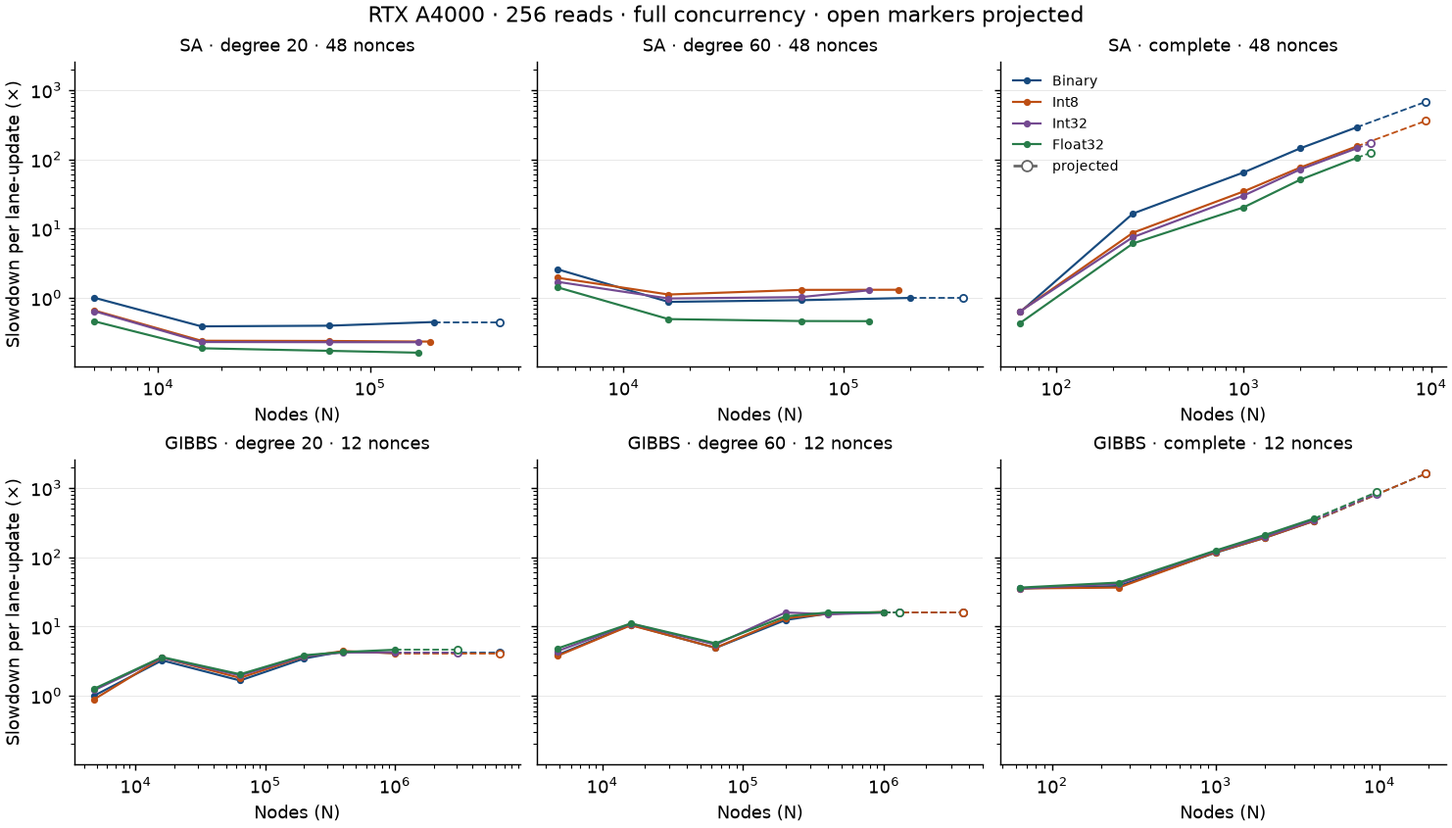
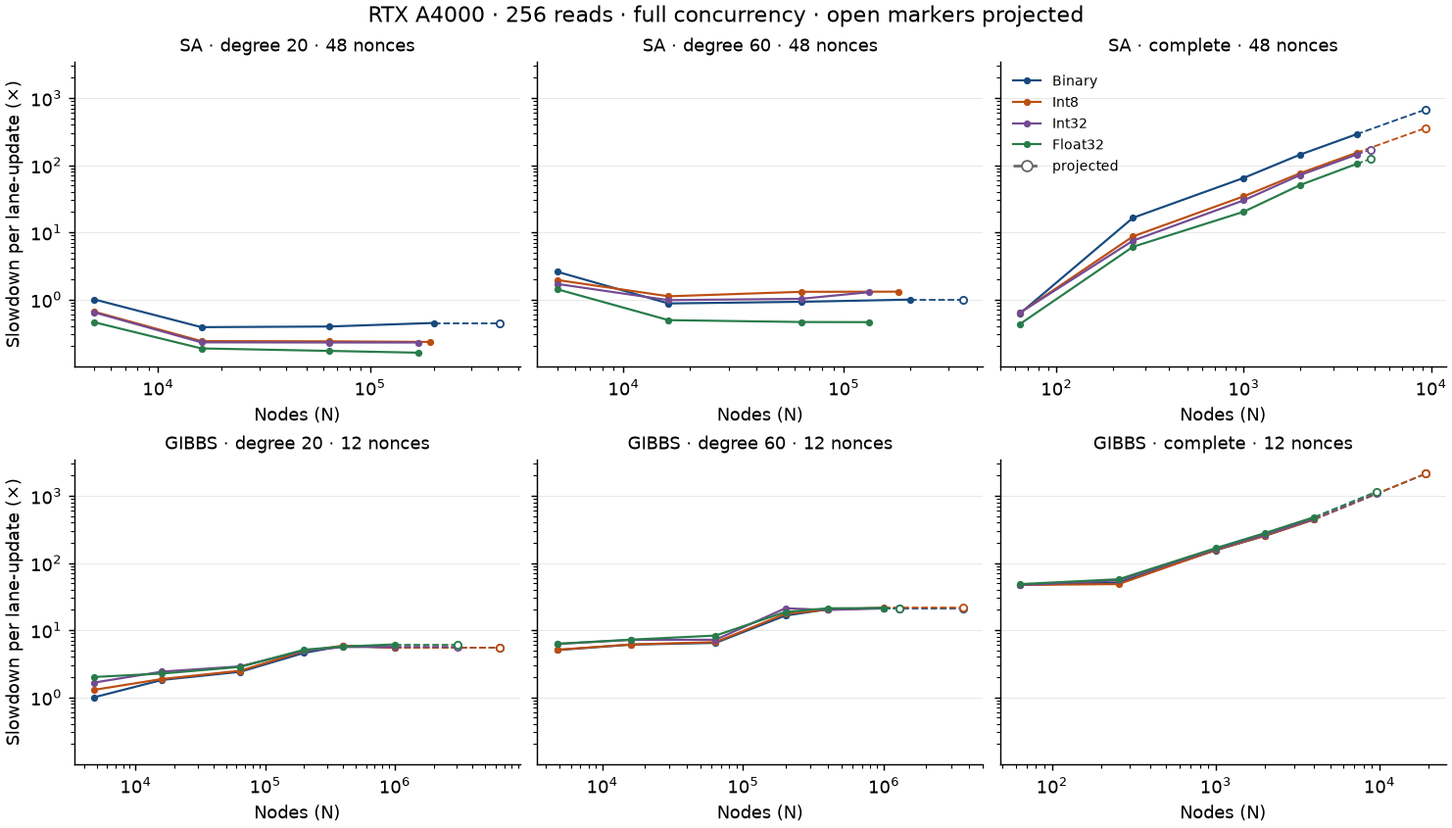
docs(perf): regenerate the sa and gibbs report with the carve-out measurements
The report, its timing tables, and both plots now come from a summary
that holds the 24 Gibbs cells measured again on 8f5b7ae. The separate
recalibration section is gone, and the test setup names the build.

diff --git a/docs/perf/2026-11-sa-gibbs-vram-dense-a4000.md b/docs/perf/2026-11-sa-gibbs-vram-dense-a4000.md
@@ -11,6 +11,8 @@ The tables show both how much fits and how long it runs.
 - Grid binaries: the first 260 cells used `1b8108a309a9d3c4ef543858af3ac4ddf13ebc6c` with the probe calibration edits.
   The 16 Gibbs full-spill cells at 400,000 and 1,000,000 nodes used the `a6d0769` build, `target/grid-a6d0769/quip-cuda-gibbs`.
   Kernel code is the same in both builds. The later build also has no fixed launch time limit.
+  The 24 Gibbs cells at 4,800, 16,000, and 64,000 nodes at degrees 20 and 60 and 12 nonces used `8f5b7ae`, which asks the driver to prefer L1 over shared memory for every Gibbs function.
+  Gibbs cells at 12 nonces and more than 64,000 nodes measured within 5 percent with and without that change, and the one-nonce Gibbs cells use the earlier builds.
 - Reads: 256 per nonce. Concurrency: full instance count and one nonce.
 - Each sweep point uses one warm-up and four measured repeats.
 - Sweep pairs: 64/256, or 8/32 when earlier cells predict more than 900 seconds for 64/256.
@@ -84,18 +86,18 @@ Each of 12 instances has a budget of 1,108,130,747 bytes.
 
 | Connectivity | Precision | Nodes | Couplers | Tier | Bytes per instance | Slowdown |
 |---|---|---:|---:|---|---:|---:|
-| degree 20 | Binary | 6,491,600 | 64,916,000 | spill | 1,057,728,632 | 4.1153× (projected) |
-| degree 20 | Int8 | 6,491,600 | 64,916,000 | spill | 1,057,728,632 | 4.0792× (projected) |
-| degree 20 | Int32 | 3,077,188 | 30,771,880 | spill | 1,082,768,392 | 4.2185× (projected) |
-| degree 20 | Float32 | 3,077,188 | 30,771,880 | spill | 1,082,768,392 | 4.5859× (projected) |
-| degree 60 | Binary | 3,641,281 | 109,238,430 | spill | 1,030,081,347 | 15.9198× (projected) |
-| degree 60 | Int8 | 3,641,281 | 109,238,430 | spill | 1,030,081,347 | 16.1057× (projected) |
-| degree 60 | Int32 | 1,296,797 | 38,903,910 | spill | 1,078,533,544 | 15.7330× (projected) |
-| degree 60 | Float32 | 1,296,797 | 38,903,910 | spill | 1,078,533,544 | 15.9262× (projected) |
-| complete | Binary | 19,177 | 183,869,076 | dense | 1,105,327,703 | 1598.2570× (projected) |
-| complete | Int8 | 19,177 | 183,869,076 | dense | 1,105,327,703 | 1600.3476× (projected) |
-| complete | Int32 | 9,592 | 45,998,436 | dense | 1,105,193,345 | 821.1391× (projected) |
-| complete | Float32 | 9,592 | 45,998,436 | dense | 1,105,193,345 | 864.9393× (projected) |
+| degree 20 | Binary | 6,491,600 | 64,916,000 | spill | 1,057,728,632 | 5.5030× (projected) |
+| degree 20 | Int8 | 6,491,600 | 64,916,000 | spill | 1,057,728,632 | 5.4547× (projected) |
+| degree 20 | Int32 | 3,077,188 | 30,771,880 | spill | 1,082,768,392 | 5.6410× (projected) |
+| degree 20 | Float32 | 3,077,188 | 30,771,880 | spill | 1,082,768,392 | 6.1323× (projected) |
+| degree 60 | Binary | 3,641,281 | 109,238,430 | spill | 1,030,081,347 | 21.2878× (projected) |
+| degree 60 | Int8 | 3,641,281 | 109,238,430 | spill | 1,030,081,347 | 21.5363× (projected) |
+| degree 60 | Int32 | 1,296,797 | 38,903,910 | spill | 1,078,533,544 | 21.0381× (projected) |
+| degree 60 | Float32 | 1,296,797 | 38,903,910 | spill | 1,078,533,544 | 21.2964× (projected) |
+| complete | Binary | 19,177 | 183,869,076 | dense | 1,105,327,703 | 2137.1746× (projected) |
+| complete | Int8 | 19,177 | 183,869,076 | dense | 1,105,327,703 | 2139.9701× (projected) |
+| complete | Int32 | 9,592 | 45,998,436 | dense | 1,105,193,345 | 1098.0197× (projected) |
+| complete | Float32 | 9,592 | 45,998,436 | dense | 1,105,193,345 | 1156.5889× (projected) |
 
 ## Timing tables
 
@@ -216,121 +218,121 @@ The tables hold the timed range only, and the Smoke runs section lists the large
 
 | Connectivity | Precision | N | Spilled | Nonces | Sweeps | Sweep ms | G lane-updates/s | Slowdown |
 |---|---|---:|---:|---:|---|---:|---:|---:|
-| degree 20 | binary | 4,800 | 0.0% | 12 | 64/256 | 5.497795 | 2.68209 | 1.0000× |
-| degree 20 | binary | 16,000 | 0.0% | 12 | 64/256 | 59.107871 | 0.83156 | 3.2254× |
-| degree 20 | binary | 64,000 | 0.0% | 12 | 64/256 | 121.000988 | 1.62485 | 1.6507× |
-| degree 20 | binary | 200,000 | 49.3% | 12 | 64/256 | 785.232310 | 0.78244 | 3.4278× |
-| degree 20 | binary | 400,000 | 74.7% | 12 | 8/32 | 1991.706543 | 0.61696 | 4.3473× |
-| degree 20 | binary | 1,000,000 | 89.9% | 12 | 8/32 | 4713.566162 | 0.65174 | 4.1153× |
+| degree 20 | binary | 4,800 | 0.0% | 12 | 64/256 | 4.111451 | 3.58647 | 1.0000× |
+| degree 20 | binary | 16,000 | 0.0% | 12 | 64/256 | 24.835500 | 1.97910 | 1.8122× |
+| degree 20 | binary | 64,000 | 0.0% | 12 | 64/256 | 131.104538 | 1.49963 | 2.3916× |
+| degree 20 | binary | 200,000 | 49.3% | 12 | 64/256 | 785.232310 | 0.78244 | 4.5837× |
+| degree 20 | binary | 400,000 | 74.7% | 12 | 8/32 | 1991.706543 | 0.61696 | 5.8131× |
+| degree 20 | binary | 1,000,000 | 89.9% | 12 | 8/32 | 4713.566162 | 0.65174 | 5.5030× |
 | degree 20 | binary | 4,800 | 0.0% | 1 | 64/256 | 4.355447 | 0.28213 | 1.0000× |
 | degree 20 | binary | 16,000 | 0.0% | 1 | 64/256 | 33.069009 | 0.12386 | 2.2778× |
 | degree 20 | binary | 64,000 | 0.0% | 1 | 64/256 | 95.880447 | 0.17088 | 1.6510× |
 | degree 20 | binary | 200,000 | 49.3% | 1 | 64/256 | 640.133464 | 0.07998 | 3.5274× |
-| degree 20 | int8 | 4,800 | 0.0% | 12 | 64/256 | 4.876751 | 3.02365 | 0.8870× |
-| degree 20 | int8 | 16,000 | 0.0% | 12 | 64/256 | 64.472672 | 0.76237 | 3.5181× |
-| degree 20 | int8 | 64,000 | 0.0% | 12 | 64/256 | 132.074389 | 1.48862 | 1.8017× |
-| degree 20 | int8 | 200,000 | 49.3% | 12 | 64/256 | 834.823792 | 0.73596 | 3.6443× |
-| degree 20 | int8 | 400,000 | 74.7% | 12 | 8/32 | 2010.378459 | 0.61123 | 4.3880× |
-| degree 20 | int8 | 1,000,000 | 89.9% | 12 | 8/32 | 4672.234945 | 0.65750 | 4.0792× |
+| degree 20 | int8 | 4,800 | 0.0% | 12 | 64/256 | 5.306321 | 2.77887 | 1.2906× |
+| degree 20 | int8 | 16,000 | 0.0% | 12 | 64/256 | 25.640667 | 1.91695 | 1.8709× |
+| degree 20 | int8 | 64,000 | 0.0% | 12 | 64/256 | 136.073942 | 1.44486 | 2.4822× |
+| degree 20 | int8 | 200,000 | 49.3% | 12 | 64/256 | 834.823792 | 0.73596 | 4.8732× |
+| degree 20 | int8 | 400,000 | 74.7% | 12 | 8/32 | 2010.378459 | 0.61123 | 5.8676× |
+| degree 20 | int8 | 1,000,000 | 89.9% | 12 | 8/32 | 4672.234945 | 0.65750 | 5.4547× |
 | degree 20 | int8 | 4,800 | 0.0% | 1 | 64/256 | 4.169994 | 0.29468 | 0.9574× |
 | degree 20 | int8 | 16,000 | 0.0% | 1 | 64/256 | 34.378634 | 0.11914 | 2.3680× |
 | degree 20 | int8 | 64,000 | 0.0% | 1 | 64/256 | 96.974417 | 0.16895 | 1.6699× |
 | degree 20 | int8 | 200,000 | 49.3% | 1 | 64/256 | 644.113057 | 0.07949 | 3.5493× |
-| degree 20 | int32 | 4,800 | 0.0% | 12 | 64/256 | 6.591677 | 2.23700 | 1.1990× |
-| degree 20 | int32 | 16,000 | 0.0% | 12 | 64/256 | 64.388643 | 0.76336 | 3.5135× |
-| degree 20 | int32 | 64,000 | 0.0% | 12 | 64/256 | 143.389852 | 1.37114 | 1.9561× |
-| degree 20 | int32 | 200,000 | 49.3% | 12 | 64/256 | 846.958211 | 0.72542 | 3.6973× |
-| degree 20 | int32 | 400,000 | 74.7% | 12 | 8/32 | 1915.486287 | 0.64151 | 4.1809× |
-| degree 20 | int32 | 1,000,000 | 89.9% | 12 | 8/32 | 4831.797689 | 0.63579 | 4.2185× |
+| degree 20 | int32 | 4,800 | 0.0% | 12 | 64/256 | 6.809102 | 2.16557 | 1.6561× |
+| degree 20 | int32 | 16,000 | 0.0% | 12 | 64/256 | 33.013389 | 1.48885 | 2.4089× |
+| degree 20 | int32 | 64,000 | 0.0% | 12 | 64/256 | 158.122584 | 1.24339 | 2.8844× |
+| degree 20 | int32 | 200,000 | 49.3% | 12 | 64/256 | 846.958211 | 0.72542 | 4.9440× |
+| degree 20 | int32 | 400,000 | 74.7% | 12 | 8/32 | 1915.486287 | 0.64151 | 5.5907× |
+| degree 20 | int32 | 1,000,000 | 89.9% | 12 | 8/32 | 4831.797689 | 0.63579 | 5.6410× |
 | degree 20 | int32 | 4,800 | 0.0% | 1 | 64/256 | 4.462780 | 0.27534 | 1.0246× |
 | degree 20 | int32 | 16,000 | 0.0% | 1 | 64/256 | 36.212374 | 0.11311 | 2.4943× |
 | degree 20 | int32 | 64,000 | 0.0% | 1 | 64/256 | 100.856597 | 0.16245 | 1.7367× |
 | degree 20 | int32 | 200,000 | 49.3% | 1 | 64/256 | 640.668803 | 0.07992 | 3.5303× |
-| degree 20 | float | 4,800 | 0.0% | 12 | 64/256 | 6.922325 | 2.13015 | 1.2591× |
-| degree 20 | float | 16,000 | 0.0% | 12 | 64/256 | 65.859039 | 0.74632 | 3.5938× |
-| degree 20 | float | 64,000 | 0.0% | 12 | 64/256 | 148.860469 | 1.32075 | 2.0307× |
-| degree 20 | float | 200,000 | 49.3% | 12 | 64/256 | 874.675883 | 0.70243 | 3.8183× |
-| degree 20 | float | 400,000 | 74.7% | 12 | 8/32 | 1948.789998 | 0.63055 | 4.2536× |
-| degree 20 | float | 1,000,000 | 89.9% | 12 | 8/32 | 5252.613607 | 0.58485 | 4.5859× |
+| degree 20 | float | 4,800 | 0.0% | 12 | 64/256 | 8.247306 | 1.78793 | 2.0059× |
+| degree 20 | float | 16,000 | 0.0% | 12 | 64/256 | 30.903810 | 1.59048 | 2.2550× |
+| degree 20 | float | 64,000 | 0.0% | 12 | 64/256 | 155.140554 | 1.26729 | 2.8300× |
+| degree 20 | float | 200,000 | 49.3% | 12 | 64/256 | 874.675883 | 0.70243 | 5.1058× |
+| degree 20 | float | 400,000 | 74.7% | 12 | 8/32 | 1948.789998 | 0.63055 | 5.6879× |
+| degree 20 | float | 1,000,000 | 89.9% | 12 | 8/32 | 5252.613607 | 0.58485 | 6.1323× |
 | degree 20 | float | 4,800 | 0.0% | 1 | 64/256 | 4.607019 | 0.26672 | 1.0578× |
 | degree 20 | float | 16,000 | 0.0% | 1 | 64/256 | 34.747630 | 0.11788 | 2.3934× |
 | degree 20 | float | 64,000 | 0.0% | 1 | 64/256 | 105.292745 | 0.15560 | 1.8131× |
 | degree 20 | float | 200,000 | 49.3% | 1 | 64/256 | 670.847280 | 0.07632 | 3.6966× |
-| degree 60 | binary | 4,800 | 0.0% | 12 | 64/256 | 21.173981 | 0.69640 | 3.8514× |
-| degree 60 | binary | 16,000 | 0.0% | 12 | 64/256 | 192.520414 | 0.25531 | 10.5053× |
-| degree 60 | binary | 64,000 | 0.0% | 12 | 8/32 | 357.520569 | 0.54992 | 4.8772× |
-| degree 60 | binary | 200,000 | 49.3% | 12 | 8/32 | 2820.936808 | 0.21780 | 12.3145× |
-| degree 60 | binary | 400,000 | 74.7% | 12 | 2/8 | 6998.016602 | 0.17559 | 15.2745× |
-| degree 60 | binary | 1,000,000 | 89.9% | 12 | 2/8 | 18234.156576 | 0.16848 | 15.9198× |
+| degree 60 | binary | 4,800 | 0.0% | 12 | 64/256 | 20.741940 | 0.71091 | 5.0449× |
+| degree 60 | binary | 16,000 | 0.0% | 12 | 64/256 | 83.332629 | 0.58983 | 6.0805× |
+| degree 60 | binary | 64,000 | 0.0% | 12 | 8/32 | 353.843058 | 0.55564 | 6.4547× |
+| degree 60 | binary | 200,000 | 49.3% | 12 | 8/32 | 2820.936808 | 0.21780 | 16.4668× |
+| degree 60 | binary | 400,000 | 74.7% | 12 | 2/8 | 6998.016602 | 0.17559 | 20.4250× |
+| degree 60 | binary | 1,000,000 | 89.9% | 12 | 2/8 | 18234.156576 | 0.16848 | 21.2878× |
 | degree 60 | binary | 4,800 | 0.0% | 1 | 64/256 | 13.805791 | 0.08901 | 3.1698× |
 | degree 60 | binary | 16,000 | 0.0% | 1 | 64/256 | 164.052882 | 0.02497 | 11.2998× |
 | degree 60 | binary | 64,000 | 0.0% | 1 | 8/32 | 285.496480 | 0.05739 | 4.9162× |
 | degree 60 | binary | 200,000 | 49.3% | 1 | 8/32 | 1973.534871 | 0.02594 | 10.8749× |
-| degree 60 | int8 | 4,800 | 0.0% | 12 | 64/256 | 20.511592 | 0.71889 | 3.7309× |
-| degree 60 | int8 | 16,000 | 0.0% | 12 | 64/256 | 190.038981 | 0.25864 | 10.3699× |
-| degree 60 | int8 | 64,000 | 0.0% | 12 | 8/32 | 359.585180 | 0.54676 | 4.9054× |
-| degree 60 | int8 | 200,000 | 49.3% | 12 | 8/32 | 2995.287638 | 0.20512 | 13.0756× |
-| degree 60 | int8 | 400,000 | 74.7% | 12 | 2/8 | 6924.283366 | 0.17746 | 15.1136× |
-| degree 60 | int8 | 1,000,000 | 89.9% | 12 | 2/8 | 18446.999674 | 0.16653 | 16.1057× |
+| degree 60 | int8 | 4,800 | 0.0% | 12 | 64/256 | 20.974353 | 0.70303 | 5.1014× |
+| degree 60 | int8 | 16,000 | 0.0% | 12 | 64/256 | 83.747206 | 0.58691 | 6.1108× |
+| degree 60 | int8 | 64,000 | 0.0% | 12 | 8/32 | 363.491638 | 0.54089 | 6.6307× |
+| degree 60 | int8 | 200,000 | 49.3% | 12 | 8/32 | 2995.287638 | 0.20512 | 17.4846× |
+| degree 60 | int8 | 400,000 | 74.7% | 12 | 2/8 | 6924.283366 | 0.17746 | 20.2097× |
+| degree 60 | int8 | 1,000,000 | 89.9% | 12 | 2/8 | 18446.999674 | 0.16653 | 21.5363× |
 | degree 60 | int8 | 4,800 | 0.0% | 1 | 64/256 | 13.895509 | 0.08843 | 3.1904× |
 | degree 60 | int8 | 16,000 | 0.0% | 1 | 64/256 | 164.178396 | 0.02495 | 11.3085× |
 | degree 60 | int8 | 64,000 | 0.0% | 1 | 8/32 | 289.290273 | 0.05664 | 4.9815× |
 | degree 60 | int8 | 200,000 | 49.3% | 1 | 8/32 | 1976.587687 | 0.02590 | 10.8917× |
-| degree 60 | int32 | 4,800 | 0.0% | 12 | 64/256 | 23.980204 | 0.61491 | 4.3618× |
-| degree 60 | int32 | 16,000 | 0.0% | 12 | 64/256 | 199.684644 | 0.24615 | 10.8963× |
-| degree 60 | int32 | 64,000 | 0.0% | 12 | 8/32 | 399.051504 | 0.49269 | 5.4438× |
-| degree 60 | int32 | 200,000 | 49.3% | 12 | 8/32 | 3625.759562 | 0.16945 | 15.8278× |
-| degree 60 | int32 | 400,000 | 74.7% | 12 | 2/8 | 6841.066732 | 0.17962 | 14.9320× |
-| degree 60 | int32 | 1,000,000 | 89.9% | 12 | 2/8 | 18020.195638 | 0.17048 | 15.7330× |
+| degree 60 | int32 | 4,800 | 0.0% | 12 | 64/256 | 25.525058 | 0.57769 | 6.2083× |
+| degree 60 | int32 | 16,000 | 0.0% | 12 | 64/256 | 98.007523 | 0.50151 | 7.1513× |
+| degree 60 | int32 | 64,000 | 0.0% | 12 | 8/32 | 394.141393 | 0.49883 | 7.1898× |
+| degree 60 | int32 | 200,000 | 49.3% | 12 | 8/32 | 3625.759562 | 0.16945 | 21.1648× |
+| degree 60 | int32 | 400,000 | 74.7% | 12 | 2/8 | 6841.066732 | 0.17962 | 19.9669× |
+| degree 60 | int32 | 1,000,000 | 89.9% | 12 | 2/8 | 18020.195638 | 0.17048 | 21.0381× |
 | degree 60 | int32 | 4,800 | 0.0% | 1 | 64/256 | 14.148421 | 0.08685 | 3.2484× |
 | degree 60 | int32 | 16,000 | 0.0% | 1 | 64/256 | 164.286069 | 0.02493 | 11.3159× |
 | degree 60 | int32 | 64,000 | 0.0% | 1 | 8/32 | 306.641230 | 0.05343 | 5.2803× |
 | degree 60 | int32 | 200,000 | 49.3% | 1 | 8/32 | 2000.955933 | 0.02559 | 11.0259× |
-| degree 60 | float | 4,800 | 0.0% | 12 | 64/256 | 26.281795 | 0.56106 | 4.7804× |
-| degree 60 | float | 16,000 | 0.0% | 12 | 8/32 | 201.672900 | 0.24372 | 11.0048× |
-| degree 60 | float | 64,000 | 0.0% | 12 | 8/32 | 415.801290 | 0.47284 | 5.6723× |
-| degree 60 | float | 200,000 | 49.3% | 12 | 8/32 | 3191.826904 | 0.19249 | 13.9336× |
-| degree 60 | float | 400,000 | 74.7% | 12 | 2/8 | 7245.671224 | 0.16959 | 15.8151× |
-| degree 60 | float | 1,000,000 | 89.9% | 12 | 2/8 | 18241.470052 | 0.16841 | 15.9262× |
+| degree 60 | float | 4,800 | 0.0% | 12 | 64/256 | 25.753840 | 0.57256 | 6.2639× |
+| degree 60 | float | 16,000 | 0.0% | 12 | 8/32 | 98.820119 | 0.49739 | 7.2106× |
+| degree 60 | float | 64,000 | 0.0% | 12 | 8/32 | 455.049713 | 0.43206 | 8.3009× |
+| degree 60 | float | 200,000 | 49.3% | 12 | 8/32 | 3191.826904 | 0.19249 | 18.6318× |
+| degree 60 | float | 400,000 | 74.7% | 12 | 2/8 | 7245.671224 | 0.16959 | 21.1478× |
+| degree 60 | float | 1,000,000 | 89.9% | 12 | 2/8 | 18241.470052 | 0.16841 | 21.2964× |
 | degree 60 | float | 4,800 | 0.0% | 1 | 64/256 | 14.633248 | 0.08397 | 3.3598× |
 | degree 60 | float | 16,000 | 0.0% | 1 | 64/256 | 169.963450 | 0.02410 | 11.7070× |
 | degree 60 | float | 64,000 | 0.0% | 1 | 8/32 | 315.331406 | 0.05196 | 5.4299× |
 | degree 60 | float | 200,000 | 49.3% | 1 | 8/32 | 2040.884196 | 0.02509 | 11.2460× |
-| complete | binary | 64 | dense | 12 | 64/256 | 2.588320 | 0.07596 | 35.3094× |
-| complete | binary | 256 | dense | 12 | 64/256 | 11.189041 | 0.07029 | 38.1598× |
-| complete | binary | 1,000 | dense | 12 | 64/256 | 132.589101 | 0.02317 | 115.7605× |
-| complete | binary | 2,000 | dense | 12 | 64/256 | 435.714462 | 0.01410 | 190.2062× |
-| complete | binary | 4,000 | dense | 12 | 8/32 | 1527.331238 | 0.00805 | 333.3696× |
+| complete | binary | 64 | dense | 12 | 64/256 | 2.588320 | 0.07596 | 47.2154× |
+| complete | binary | 256 | dense | 12 | 64/256 | 11.189041 | 0.07029 | 51.0269× |
+| complete | binary | 1,000 | dense | 12 | 64/256 | 132.589101 | 0.02317 | 154.7939× |
+| complete | binary | 2,000 | dense | 12 | 64/256 | 435.714462 | 0.01410 | 254.3420× |
+| complete | binary | 4,000 | dense | 12 | 8/32 | 1527.331238 | 0.00805 | 445.7787× |
 | complete | binary | 64 | dense | 1 | 64/256 | 2.526528 | 0.00648 | 43.5063× |
 | complete | binary | 256 | dense | 1 | 64/256 | 10.369216 | 0.00632 | 44.6390× |
 | complete | binary | 1,000 | dense | 1 | 64/256 | 81.794095 | 0.00313 | 90.1427× |
 | complete | binary | 2,000 | dense | 1 | 64/256 | 257.268951 | 0.00199 | 141.7640× |
 | complete | binary | 4,000 | dense | 1 | 8/32 | 1484.435303 | 0.00069 | 408.9872× |
-| complete | int8 | 64 | dense | 12 | 64/256 | 2.581835 | 0.07615 | 35.2210× |
-| complete | int8 | 256 | dense | 12 | 64/256 | 10.632496 | 0.07396 | 36.2617× |
-| complete | int8 | 1,000 | dense | 12 | 64/256 | 134.406471 | 0.02286 | 117.3472× |
-| complete | int8 | 2,000 | dense | 12 | 64/256 | 435.814931 | 0.01410 | 190.2501× |
-| complete | int8 | 4,000 | dense | 12 | 8/32 | 1529.329061 | 0.00803 | 333.8056× |
+| complete | int8 | 64 | dense | 12 | 64/256 | 2.581835 | 0.07615 | 47.0971× |
+| complete | int8 | 256 | dense | 12 | 64/256 | 10.632496 | 0.07396 | 48.4888× |
+| complete | int8 | 1,000 | dense | 12 | 64/256 | 134.406471 | 0.02286 | 156.9157× |
+| complete | int8 | 2,000 | dense | 12 | 64/256 | 435.814931 | 0.01410 | 254.4006× |
+| complete | int8 | 4,000 | dense | 12 | 8/32 | 1529.329061 | 0.00803 | 446.3618× |
 | complete | int8 | 64 | dense | 1 | 64/256 | 2.567251 | 0.00638 | 44.2076× |
 | complete | int8 | 256 | dense | 1 | 64/256 | 10.558637 | 0.00621 | 45.4544× |
 | complete | int8 | 1,000 | dense | 1 | 64/256 | 82.478690 | 0.00310 | 90.8971× |
 | complete | int8 | 2,000 | dense | 1 | 64/256 | 258.656240 | 0.00198 | 142.5284× |
 | complete | int8 | 4,000 | dense | 1 | 8/32 | 1481.296590 | 0.00069 | 408.1225× |
-| complete | int32 | 64 | dense | 12 | 64/256 | 2.574459 | 0.07637 | 35.1203× |
-| complete | int32 | 256 | dense | 12 | 64/256 | 12.075400 | 0.06513 | 41.1826× |
-| complete | int32 | 1,000 | dense | 12 | 64/256 | 138.647242 | 0.02216 | 121.0498× |
-| complete | int32 | 2,000 | dense | 12 | 8/32 | 451.203257 | 0.01362 | 196.9677× |
-| complete | int32 | 4,000 | dense | 12 | 8/32 | 1568.826355 | 0.00783 | 342.4267× |
+| complete | int32 | 64 | dense | 12 | 64/256 | 2.574459 | 0.07637 | 46.9626× |
+| complete | int32 | 256 | dense | 12 | 64/256 | 12.075400 | 0.06513 | 55.0691× |
+| complete | int32 | 1,000 | dense | 12 | 64/256 | 138.647242 | 0.02216 | 161.8666× |
+| complete | int32 | 2,000 | dense | 12 | 8/32 | 451.203257 | 0.01362 | 263.3833× |
+| complete | int32 | 4,000 | dense | 12 | 8/32 | 1568.826355 | 0.00783 | 457.8898× |
 | complete | int32 | 64 | dense | 1 | 64/256 | 2.593779 | 0.00632 | 44.6644× |
 | complete | int32 | 256 | dense | 1 | 64/256 | 12.003857 | 0.00546 | 51.6761× |
 | complete | int32 | 1,000 | dense | 1 | 64/256 | 87.369921 | 0.00293 | 96.2876× |
 | complete | int32 | 2,000 | dense | 1 | 64/256 | 450.192027 | 0.00114 | 248.0712× |
 | complete | int32 | 4,000 | dense | 1 | 8/32 | 1578.442952 | 0.00065 | 434.8879× |
-| complete | float | 64 | dense | 12 | 64/256 | 2.657272 | 0.07399 | 36.2501× |
-| complete | float | 256 | dense | 12 | 64/256 | 12.561307 | 0.06261 | 42.8398× |
-| complete | float | 1,000 | dense | 12 | 64/256 | 142.549367 | 0.02155 | 124.4566× |
-| complete | float | 2,000 | dense | 12 | 8/32 | 477.867757 | 0.01286 | 208.6077× |
-| complete | float | 4,000 | dense | 12 | 8/32 | 1652.508667 | 0.00744 | 360.6919× |
+| complete | float | 64 | dense | 12 | 64/256 | 2.657272 | 0.07399 | 48.4732× |
+| complete | float | 256 | dense | 12 | 64/256 | 12.561307 | 0.06261 | 57.2850× |
+| complete | float | 1,000 | dense | 12 | 64/256 | 142.549367 | 0.02155 | 166.4222× |
+| complete | float | 2,000 | dense | 12 | 8/32 | 477.867757 | 0.01286 | 278.9484× |
+| complete | float | 4,000 | dense | 12 | 8/32 | 1652.508667 | 0.00744 | 482.3140× |
 | complete | float | 64 | dense | 1 | 64/256 | 2.681346 | 0.00611 | 46.1723× |
 | complete | float | 256 | dense | 1 | 64/256 | 12.425445 | 0.00527 | 53.4910× |
 | complete | float | 1,000 | dense | 1 | 64/256 | 91.191933 | 0.00281 | 100.4997× |
@@ -343,7 +345,7 @@ SA keeps spin state in a fixed local frame through 5,000 nodes and in global mem
 Gibbs uses its spill instantiation for models larger than 4,800 nodes. Both baselines run the mining-size kernels.
 At 48 nonces, SA degree-20 Binary cells larger than 5,000 nodes take 0.39× to 0.45× the baseline time per lane-update.
 At this concurrency, the mining-size SA kernel is slower per lane-update than the global-memory SA kernel.
-At 12 nonces, Gibbs degree-20 Binary cells larger than 4,800 nodes take 1.65× to 4.35× the baseline time per lane-update.
+At 12 nonces, Gibbs degree-20 Binary cells larger than 4,800 nodes take 1.81× to 5.81× the baseline time per lane-update.
 
 ## Full-concurrency curves
 
@@ -363,39 +365,39 @@ Each grid cell larger than the timed range ended with a result. The slowdown col
 | Cell | Sweeps | Wall seconds | Result | Projected slowdown |
 |---|---|---:|---|---:|
 | `sa-degree-20-binary-m48-n410747` | 8/32 | 357.7 | completed with a result | 0.4464× |
-| `gibbs-degree-20-binary-m12-n6491600` | 2/8 | 3207.8 | completed with a result | 4.1153× |
+| `gibbs-degree-20-binary-m12-n6491600` | 2/8 | 3207.8 | completed with a result | 5.5030× |
 | `sa-degree-20-binary-m1-n410747` | 8/32 | 322.3 | completed with a result | not projected |
 | `gibbs-degree-20-binary-m1-n6491600` | 2/8 | 2761.0 | completed with a result | not projected |
-| `gibbs-degree-20-int8-m12-n6491600` | 2/8 | 3538.0 | completed with a result | 4.0792× |
+| `gibbs-degree-20-int8-m12-n6491600` | 2/8 | 3538.0 | completed with a result | 5.4547× |
 | `gibbs-degree-20-int8-m1-n6491600` | 2/8 | 2791.3 | completed with a result | not projected |
-| `gibbs-degree-20-int32-m12-n3077188` | 2/8 | 1632.8 | completed with a result | 4.2185× |
+| `gibbs-degree-20-int32-m12-n3077188` | 2/8 | 1632.8 | completed with a result | 5.6410× |
 | `gibbs-degree-20-int32-m1-n3077188` | 2/8 | 1334.4 | completed with a result | not projected |
-| `gibbs-degree-20-float-m12-n3077188` | 2/8 | 1256.9 | completed with a result | 4.5859× |
+| `gibbs-degree-20-float-m12-n3077188` | 2/8 | 1256.9 | completed with a result | 6.1323× |
 | `gibbs-degree-20-float-m1-n3077188` | 2/8 | 972.5 | completed with a result | not projected |
 | `sa-degree-60-binary-m48-n347112` | 8/32 | 676.7 | completed with a result | 0.9939× |
-| `gibbs-degree-60-binary-m12-n3641281` | 1/4 | 3653.0 | completed with a result | 15.9198× |
+| `gibbs-degree-60-binary-m12-n3641281` | 1/4 | 3653.0 | completed with a result | 21.2878× |
 | `sa-degree-60-binary-m1-n347112` | 8/32 | 641.4 | completed with a result | not projected |
 | `gibbs-degree-60-binary-m1-n3641281` | 1/4 | 2920.4 | completed with a result | not projected |
-| `gibbs-degree-60-int8-m12-n3641281` | 1/4 | 3814.4 | completed with a result | 16.1057× |
+| `gibbs-degree-60-int8-m12-n3641281` | 1/4 | 3814.4 | completed with a result | 21.5363× |
 | `gibbs-degree-60-int8-m1-n3641281` | 1/4 | 3011.8 | completed with a result | not projected |
-| `gibbs-degree-60-int32-m12-n1296797` | 2/8 | 2563.4 | completed with a result | 15.7330× |
+| `gibbs-degree-60-int32-m12-n1296797` | 2/8 | 2563.4 | completed with a result | 21.0381× |
 | `gibbs-degree-60-int32-m1-n1296797` | 2/8 | 1466.8 | completed with a result | not projected |
-| `gibbs-degree-60-float-m12-n1296797` | 2/8 | 1547.0 | completed with a result | 15.9262× |
+| `gibbs-degree-60-float-m12-n1296797` | 2/8 | 1547.0 | completed with a result | 21.2964× |
 | `gibbs-degree-60-float-m1-n1296797` | 2/8 | 967.3 | completed with a result | not projected |
 | `sa-complete-binary-m48-n9370` | 1/4 | 1499.2 | completed with a result | 676.0332× |
-| `gibbs-complete-binary-m12-n19177` | 1/4 | 3385.9 | completed with a result | 1598.2570× |
+| `gibbs-complete-binary-m12-n19177` | 1/4 | 3385.9 | completed with a result | 2137.1746× |
 | `sa-complete-binary-m1-n9370` | 2/8 | 1852.3 | completed with a result | not projected |
 | `gibbs-complete-binary-m1-n19177` | 1/4 | 3263.6 | completed with a result | not projected |
 | `sa-complete-int8-m48-n9370` | 2/8 | 2950.9 | completed with a result | 358.2948× |
-| `gibbs-complete-int8-m12-n19177` | 1/4 | 3495.0 | completed with a result | 1600.3476× |
+| `gibbs-complete-int8-m12-n19177` | 1/4 | 3495.0 | completed with a result | 2139.9701× |
 | `sa-complete-int8-m1-n9370` | 2/8 | 2023.6 | completed with a result | not projected |
 | `gibbs-complete-int8-m1-n19177` | 1/4 | 3296.7 | completed with a result | not projected |
 | `sa-complete-int32-m48-n4741` | 8/32 | 1816.2 | completed with a result | 170.0646× |
-| `gibbs-complete-int32-m12-n9592` | 2/8 | 1124.9 | completed with a result | 821.1391× |
+| `gibbs-complete-int32-m12-n9592` | 2/8 | 1124.9 | completed with a result | 1098.0197× |
 | `sa-complete-int32-m1-n4741` | 8/32 | 1216.2 | completed with a result | not projected |
 | `gibbs-complete-int32-m1-n9592` | 2/8 | 1167.2 | completed with a result | not projected |
 | `sa-complete-float-m48-n4741` | 8/32 | 1505.6 | completed with a result | 123.6501× |
-| `gibbs-complete-float-m12-n9592` | 2/8 | 607.1 | completed with a result | 864.9393× |
+| `gibbs-complete-float-m12-n9592` | 2/8 | 607.1 | completed with a result | 1156.5889× |
 | `sa-complete-float-m1-n4741` | 8/32 | 996.5 | completed with a result | not projected |
 | `gibbs-complete-float-m1-n9592` | 2/8 | 560.1 | completed with a result | not projected |
 | `sa-family-b-float-m48-n4741` | 8/32 | 1042.0 | completed with a result | not projected |
@@ -430,23 +432,23 @@ The table compares that value with the projection. The calibration uses only the
 | Cell | Sweeps | Smoke-run slowdown | Projected slowdown | Projection error |
 |---|---|---:|---:|---:|
 | `sa-degree-20-binary-m48-n410747` | 8/32 | 0.4548× | 0.4464× | -1.9% |
-| `gibbs-degree-20-binary-m12-n6491600` | 2/8 | 4.1576× | 4.1153× | -1.0% |
-| `gibbs-degree-20-int8-m12-n6491600` | 2/8 | 4.9561× | 4.0792× | -17.7% |
-| `gibbs-degree-20-int32-m12-n3077188` | 2/8 | 4.8424× | 4.2185× | -12.9% |
-| `gibbs-degree-20-float-m12-n3077188` | 2/8 | 4.8829× | 4.5859× | -6.1% |
+| `gibbs-degree-20-binary-m12-n6491600` | 2/8 | 5.5595× | 5.5030× | -1.0% |
+| `gibbs-degree-20-int8-m12-n6491600` | 2/8 | 6.6273× | 5.4547× | -17.7% |
+| `gibbs-degree-20-int32-m12-n3077188` | 2/8 | 6.4752× | 5.6410× | -12.9% |
+| `gibbs-degree-20-float-m12-n3077188` | 2/8 | 6.5294× | 6.1323× | -6.1% |
 | `sa-degree-60-binary-m48-n347112` | 8/32 | 1.0023× | 0.9939× | -0.8% |
-| `gibbs-degree-60-binary-m12-n3641281` | 1/4 | 17.2960× | 15.9198× | -8.0% |
-| `gibbs-degree-60-int8-m12-n3641281` | 1/4 | 17.9549× | 16.1057× | -10.3% |
-| `gibbs-degree-60-int32-m12-n1296797` | 2/8 | 18.1866× | 15.7330× | -13.5% |
-| `gibbs-degree-60-float-m12-n1296797` | 2/8 | 16.1180× | 15.9262× | -1.2% |
+| `gibbs-degree-60-binary-m12-n3641281` | 1/4 | 23.1281× | 21.2878× | -8.0% |
+| `gibbs-degree-60-int8-m12-n3641281` | 1/4 | 24.0091× | 21.5363× | -10.3% |
+| `gibbs-degree-60-int32-m12-n1296797` | 2/8 | 24.3190× | 21.0381× | -13.5% |
+| `gibbs-degree-60-float-m12-n1296797` | 2/8 | 21.5529× | 21.2964× | -1.2% |
 | `sa-complete-binary-m48-n9370` | 1/4 | 677.6269× | 676.0332× | -0.2% |
-| `gibbs-complete-binary-m12-n19177` | 1/4 | 1398.0027× | 1598.2570× | +14.3% |
+| `gibbs-complete-binary-m12-n19177` | 1/4 | 1869.3964× | 2137.1746× | +14.3% |
 | `sa-complete-int8-m48-n9370` | 2/8 | 568.5705× | 358.2948× | -37.0% |
-| `gibbs-complete-int8-m12-n19177` | 1/4 | 1398.2126× | 1600.3476× | +14.5% |
+| `gibbs-complete-int8-m12-n19177` | 1/4 | 1869.6770× | 2139.9701× | +14.5% |
 | `sa-complete-int32-m48-n4741` | 8/32 | 172.1529× | 170.0646× | -1.2% |
-| `gibbs-complete-int32-m12-n9592` | 2/8 | 764.4557× | 821.1391× | +7.4% |
+| `gibbs-complete-int32-m12-n9592` | 2/8 | 1022.2232× | 1098.0197× | +7.4% |
 | `sa-complete-float-m48-n4741` | 8/32 | 124.5328× | 123.6501× | -0.7% |
-| `gibbs-complete-float-m12-n9592` | 2/8 | 798.4681× | 864.9393× | +8.3% |
+| `gibbs-complete-float-m12-n9592` | 2/8 | 1067.7042× | 1156.5889× | +8.3% |
 
 ## Grid wall time
 
@@ -630,16 +632,6 @@ A value at a projected entry, or between the last timed entry and a projected en
 The text probe prints `(projected)` after such a value. The JSON probe sets `projected` to true for that cell.
 MSA keeps its existing 128-read measurements and lookup behavior.
 The output names RTX A4000 as the reference card, including on other GPUs.
-
-### Gibbs recalibration after the L1 carve-out change
-
-Commit 2fde76c asks the driver to prefer L1 over shared memory for every Gibbs function. The 24 Gibbs cells at 4,800, 16,000, and 64,000 nodes, at degrees 20 and 60 in every precision, ran again at 12 nonces with that build. Each cell used its original command and sweep pair. The Gibbs entries in `src/slowdown_a4000.rs` use these new times, and every other Gibbs cell keeps its earlier time. Every Gibbs slowdown now uses the new degree-20 Binary baseline at 4,800 nodes, which fell from 4.47 ns to 3.35 ns per lane-update.
-
-- The cells at 16,000 nodes run 1.95 to 2.51 times faster than before.
-- The cells at 64,000 nodes and the other cells at 4,800 nodes stay within 16 percent of their earlier times.
-- The cells at 200,000 nodes and larger did not run again. Their times stay the same, so their slowdowns against the faster baseline rise by 1.34 times. Degree-20 Binary cells larger than 4,800 nodes now take 1.81 to 5.81 times the baseline time per lane-update.
-
-The Gibbs slowdowns in the timing tables, observations, and smoke-run sections of this report come from the earlier build. The rerun is in `/zfspool/quip-mining/bench-evidence/sa-gibbs-vram-dense/carveout/`, with `results.jsonl`, `summary.json`, and the scripts that ran the cells and rewrote the table.
 
 ## Retried cells
 
